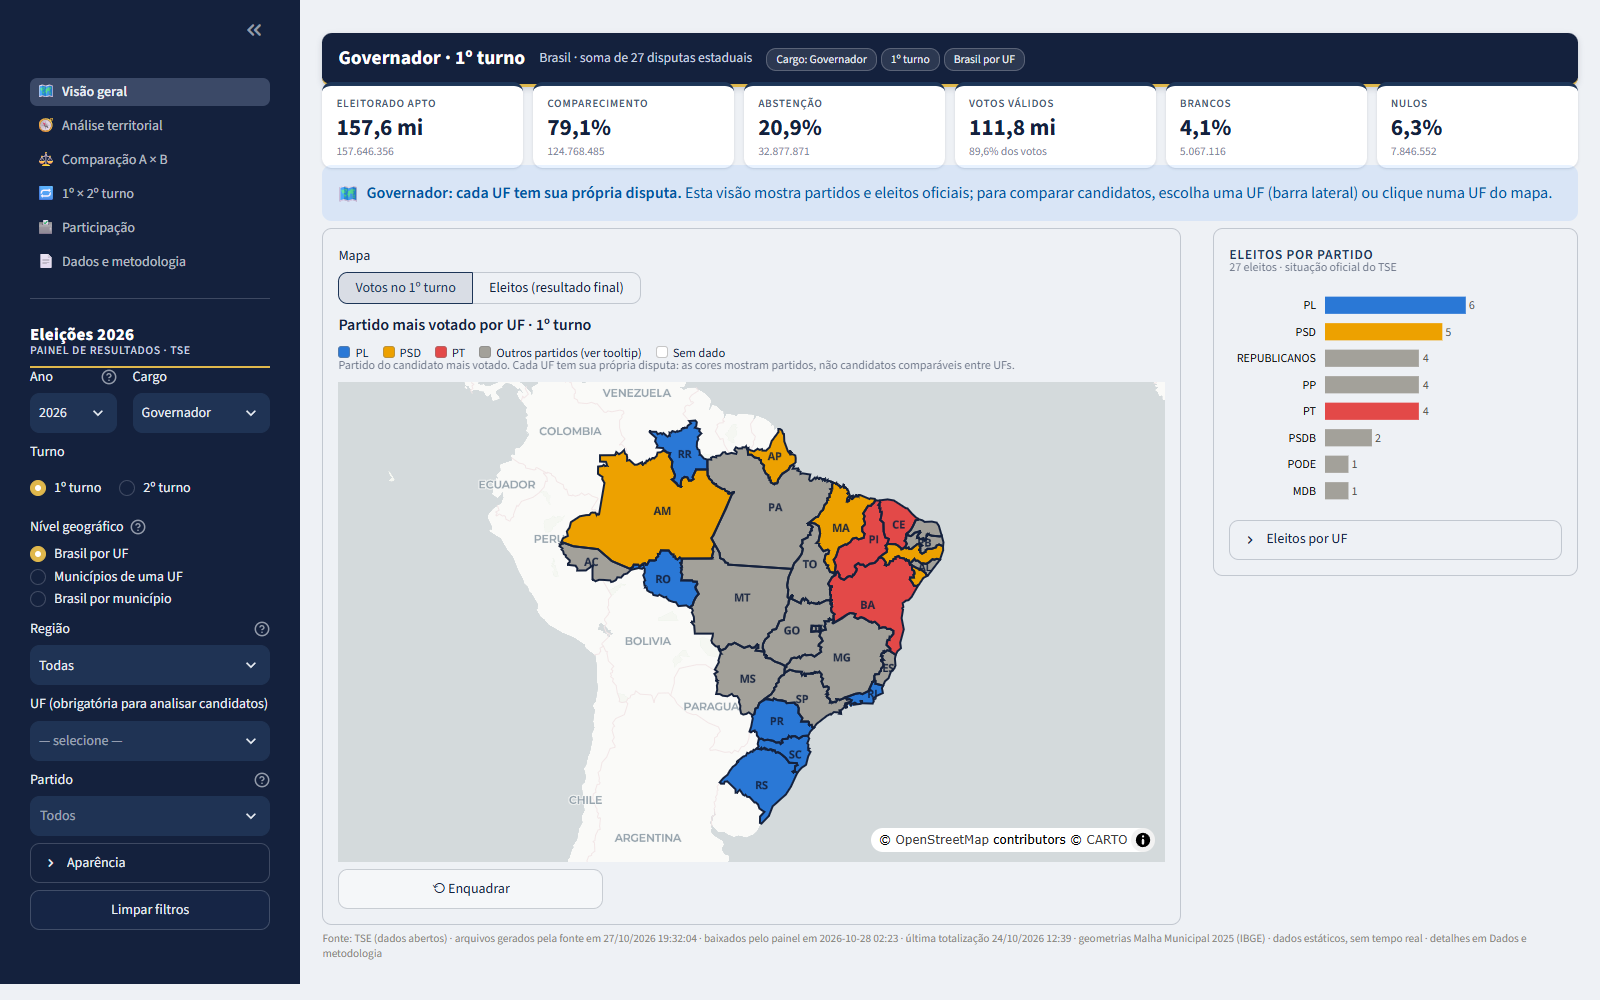
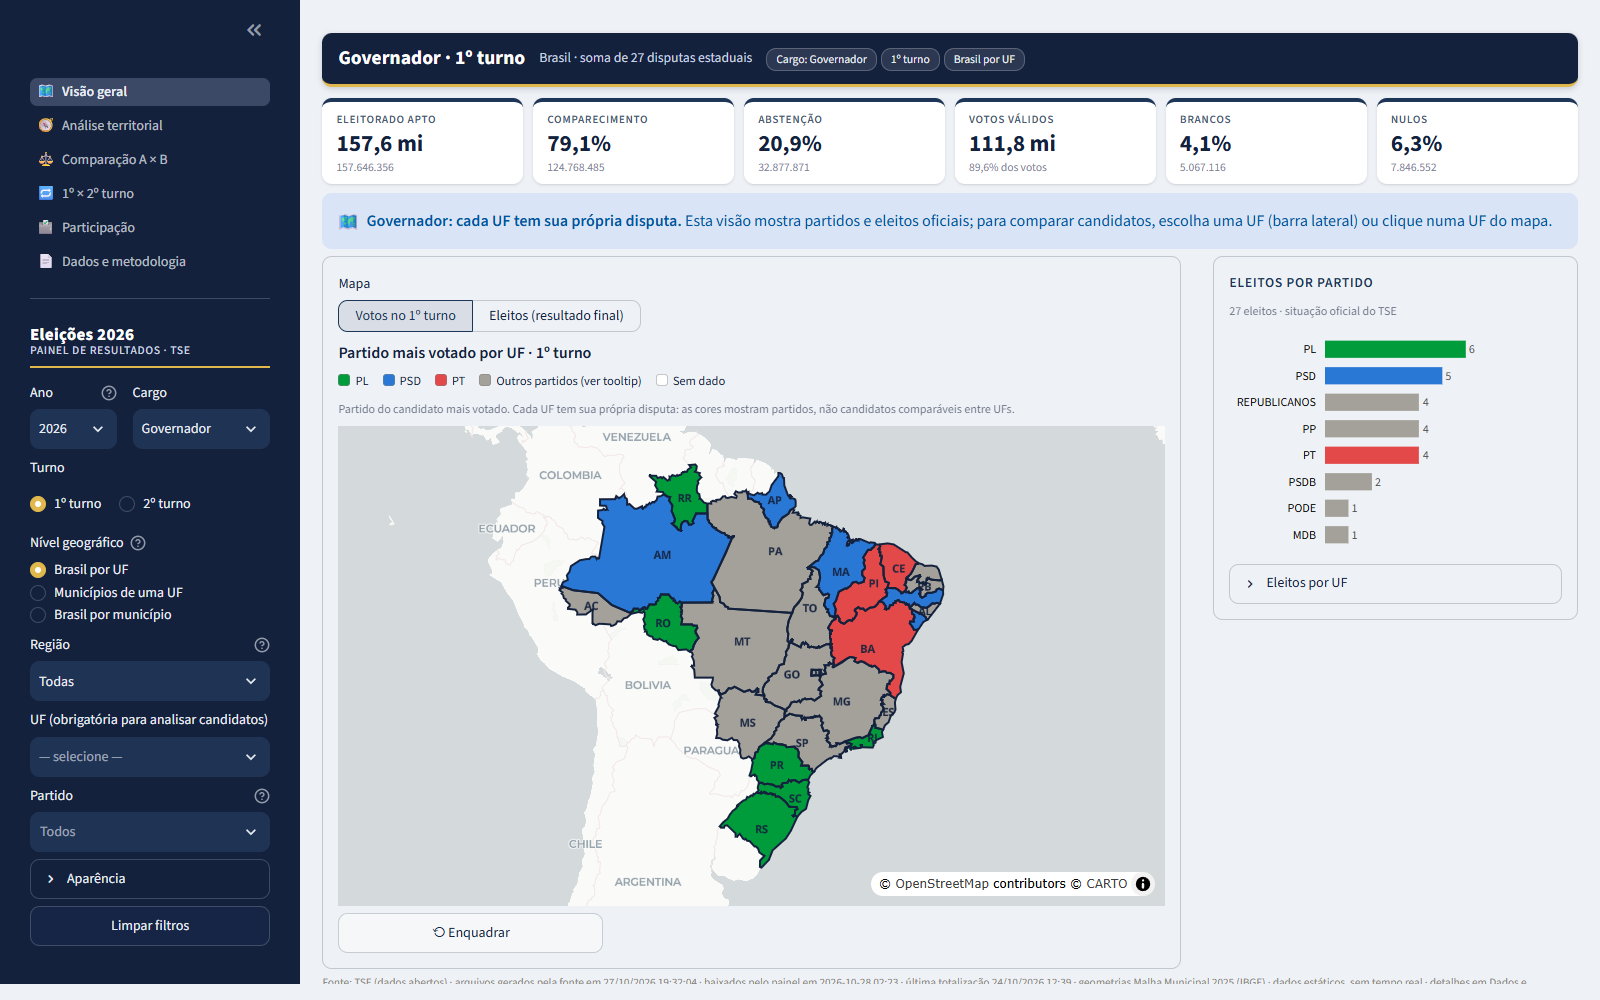
Inicializador de um clique, galeria de telas e ajustes visuais
- Abrir Dashboard.bat: duplo clique abre o painel; na primeira vez cria o
  ambiente Python e, com confirmação, prepara os dados oficiais.
- Galeria de telas no README (docs/imagens) e script para regerá-las.
- PL no verde; paleta de daltonismo troca cores confundíveis.
- Corrige sobreposição de cabeçalho, legendas e KPIs.

diff --git a/src/componentes/visuais.py b/src/componentes/visuais.py
@@ -19,6 +19,9 @@ CSS = """
 h1 {font-size: 1.35rem !important; padding: 0 !important; margin: 0 !important;}
 h2, h3 {font-size: 1.0rem !important; padding: 0.1rem 0 0.2rem !important; margin: 0 !important;}
 [data-testid="stVerticalBlock"] {gap: 0.45rem;}
+/* O Streamlit dá margin-bottom:-16px ao markdown (pensado para <p>); nos blocos HTML próprios
+   (cabeçalho, KPIs, legenda...) isso sobrepõe o elemento seguinte. */
+[data-testid="stMarkdownContainer"]:has(> div) {margin-bottom: 0 !important;}
 [data-testid="stCaptionContainer"] p {font-size: 0.75rem;}
 div[data-testid="stRadio"] > label, div[data-testid="stSelectbox"] > label {font-size: 0.75rem;}
 
@@ -31,7 +34,7 @@ div[data-testid="stRadio"] > label, div[data-testid="stSelectbox"] > label {font
 .chip {display:inline-block; padding:1px 9px; margin:0 4px 0 0; border-radius:10px; font-size:0.72rem;
        color:#e8edf3; background:rgba(255,255,255,.10); border:1px solid rgba(255,255,255,.22)}
 
-.kpis {display:grid; grid-template-columns: repeat(auto-fit, minmax(150px, 1fr)); gap:10px; margin:4px 0 6px}
+.kpis {display:grid; grid-template-columns: repeat(auto-fit, minmax(150px, 1fr)); gap:10px; margin:4px 0 2px}
 .kpi {background:#ffffff; border-radius:10px; padding:9px 14px 8px; border-top:4px solid #1d3557;
       box-shadow:0 1px 3px rgba(20,33,61,.10), 0 1px 1px rgba(20,33,61,.06)}
 .kpi .r {font-size:0.7rem; color:#4a5a73; text-transform:uppercase; letter-spacing:.06em; font-weight:600}

diff --git a/src/visualizacoes/cores.py b/src/visualizacoes/cores.py
@@ -210,15 +210,18 @@ def atribuir_com_fixas(ordem_candidatos: list[str], paleta: str, modo: str,
 
     `fixa_de`: SQ_CANDIDATO → cor escolhida pelo usuário (candidato ou partido).
     Uma cor fixa indistinguível de outra já aceita é descartada (o candidato
-    volta para a paleta) e gera um aviso. Retorna (cores, avisos).
+    volta para a paleta) e gera um aviso. Na paleta padrão, "indistinguível" é só
+    visão normal (ΔE < 15): a escolha do usuário prevalece. Na paleta de
+    daltonismo vale também o critério protan/deutan. Retorna (cores, avisos).
     """
+    compativeis = distintas if paleta == "daltonismo" else (lambda a, b: delta_e(a, b) >= 15)
     aceitas: dict[str, str] = {}
     avisos = []
     for sq in ordem_candidatos:
         cor = fixa_de.get(sq)
         if cor is None:
             continue
-        conflito = next((o for o, c in aceitas.items() if not distintas(cor, c)), None)
+        conflito = next((o for o, c in aceitas.items() if not compativeis(cor, c)), None)
         if conflito is None:
             aceitas[sq] = cor
         else:

diff --git a/tests/unit/test_visualizacao.py b/tests/unit/test_visualizacao.py
@@ -44,6 +44,17 @@ def test_cores_de_campanha_por_candidato_e_conflito():
     assert sem == cores.atribuir_lideranca(["c1", "c2"], "padrao", "claro")
 
 
+def test_cores_fixas_confundiveis_so_para_daltonismo():
+    # Verde × vermelho: distinto em visão normal, confundível em protan/deutan.
+    fixas = {"c1": "#e34948", "c2": "#009c3b"}
+    assert not cores.distintas("#e34948", "#009c3b")
+    padrao, avisos = cores.atribuir_com_fixas(["c1", "c2"], "padrao", "claro", fixas)
+    assert padrao == {"c1": "#e34948", "c2": "#009c3b"} and avisos == []   # escolha do usuário prevalece
+    dalt, avisos = cores.atribuir_com_fixas(["c1", "c2"], "daltonismo", "claro", fixas)
+    assert dalt["c2"] != "#009c3b" and avisos == [("c2", "c1")]
+    assert cores.distintas(dalt["c1"], dalt["c2"])
+
+
 def test_deputados_eleitos_por_partido_com_tons_e_nao_eleitos_neutros():
     cp = cores.cores_partidos_proporcional(["P1", "P2", "P3"], "claro", {"P2": "#e34948"})
     assert cp["P2"] == "#e34948" and cp["P1"] != cp["P3"]

diff --git a/src/componentes/filtros.py b/src/componentes/filtros.py
@@ -140,7 +140,9 @@ def barra_lateral() -> Contexto:
     ap_box = sb.expander("Aparência")
     paleta = ap_box.radio("Paleta de liderança", ["padrao", "daltonismo"], key="f_paleta",
                       format_func={"padrao": "Padrão", "daltonismo": "Alternativa (Okabe-Ito)"}.get,
-                      help="Ambas validadas para daltonismo; no mapa escuro, usa-se a padrão.")
+                      help="Padrão: respeita as cores de partido configuradas (ex.: PL verde, PT vermelho), "
+                           "que podem se confundir para daltônicos. Alternativa: troca cores fixas que se "
+                           "confundam. No mapa escuro, usa-se a padrão.")
     fundo = ap_box.radio("Fundo do mapa", ["claro", "escuro"], key="f_fundo", horizontal=True)
     if sb.button("Limpar filtros", use_container_width=True):
         limpar_filtros()

diff --git a/paginas/comum.py b/paginas/comum.py
@@ -202,6 +202,7 @@ def mapa_cores(ctx) -> tuple[dict[str, str], str]:
     mapa, avisos = cores.atribuir_com_fixas(ordem, paleta, ctx.fundo, fixa_de)
     nomes = dict(zip(c1.SQ_CANDIDATO, c1.NM_URNA_CANDIDATO))
     for sq, conflito in avisos:
-        st.caption(f"⚠ A cor configurada para {nomes.get(sq)} é indistinguível da de {nomes.get(conflito)} "
-                   "(inclusive para daltonismo); usando outra cor da paleta. Ajuste config/cores_partidos.toml.")
+        motivo = "para daltonismo" if paleta == "daltonismo" else "visualmente"
+        st.caption(f"⚠ A cor configurada para {nomes.get(sq)} é indistinguível {motivo} da de {nomes.get(conflito)}; "
+                   "usando outra cor da paleta. Ajuste config/cores_partidos.toml.")
     return mapa, cores.OUTROS[ctx.fundo]
